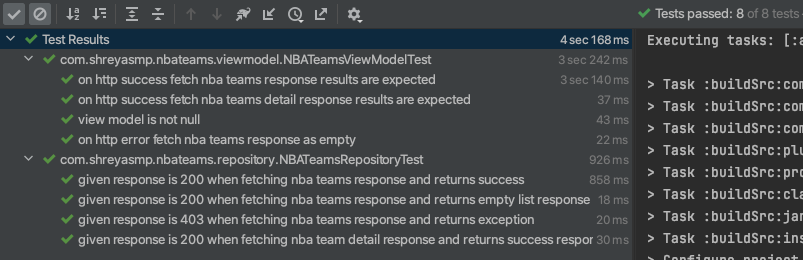
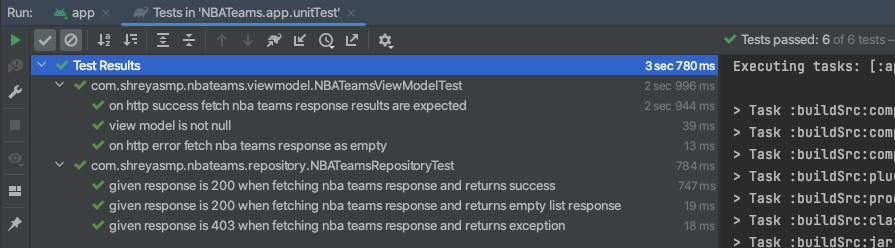
Removed extra api and improvised viewmodel.

diff --git a/app/src/main/java/com/shreyasmp/nbateams/viewmodel/NBATeamsViewModel.kt b/app/src/main/java/com/shreyasmp/nbateams/viewmodel/NBATeamsViewModel.kt
@@ -6,7 +6,6 @@ import androidx.lifecycle.LiveData
 import androidx.lifecycle.MutableLiveData
 import androidx.lifecycle.ViewModel
 import androidx.lifecycle.viewModelScope
-import com.shreyasmp.nbateams.model.Team
 import com.shreyasmp.nbateams.model.TeamsList
 import com.shreyasmp.nbateams.repository.NBATeamsRepository
 import com.shreyasmp.nbateams.utils.ResultWrapper
@@ -19,9 +18,6 @@ class NBATeamsViewModel(private val repository: NBATeamsRepository) : ViewModel(
 
     private val _nbaTeamsListResponse: MutableLiveData<TeamsList?> = MutableLiveData()
     val nbaTeamsListResponse: LiveData<TeamsList?> = _nbaTeamsListResponse
-
-    private val _nbaTeamDetailResponse: MutableLiveData<Team?> = MutableLiveData()
-    val nbaTeamDetailResponse: LiveData<Team?> = _nbaTeamDetailResponse
 
     private val isError: MutableState<Boolean> = mutableStateOf(false)
     var isLoading: MutableState<Boolean> = mutableStateOf(false)
@@ -46,27 +42,6 @@ class NBATeamsViewModel(private val repository: NBATeamsRepository) : ViewModel(
                 is ResultWrapper.FAILURE -> {
                     isError.value = true
                     _nbaTeamsListResponse.value = null
-                }
-            }
-            isLoading.value = false
-        }
-    }
-
-    fun fetchNBATeamDetails(teamName: String) {
-        isLoading.value = true
-        viewModelScope.launch {
-            val result = withContext(Dispatchers.IO) {
-                repository.getNBATeamDetails(teamName)
-            }
-            when (result) {
-                is ResultWrapper.SUCCESS -> {
-                    isError.value = false
-                    _nbaTeamDetailResponse.value = result.value.value
-                }
-
-                is ResultWrapper.FAILURE -> {
-                    isError.value = true
-                    _nbaTeamDetailResponse.value = null
                 }
             }
             isLoading.value = false

diff --git a/app/src/main/java/com/shreyasmp/nbateams/repository/NBATeamsRepository.kt b/app/src/main/java/com/shreyasmp/nbateams/repository/NBATeamsRepository.kt
@@ -3,7 +3,6 @@ package com.shreyasmp.nbateams.repository
 import android.util.Log
 import androidx.lifecycle.LiveData
 import androidx.lifecycle.MutableLiveData
-import com.shreyasmp.nbateams.model.Team
 import com.shreyasmp.nbateams.model.TeamsList
 import com.shreyasmp.nbateams.service.NBATeamService
 import com.shreyasmp.nbateams.utils.ResultWrapper
@@ -11,8 +10,6 @@ import com.shreyasmp.nbateams.utils.ResultWrapper
 interface NBATeamsRepository {
 
     suspend fun getNBATeamsList(): ResultWrapper<LiveData<TeamsList>>
-
-    suspend fun getNBATeamDetails(teamName: String): ResultWrapper<LiveData<Team>>
 }
 
 class NBATeamsRepositoryImpl(private val service: NBATeamService) : NBATeamsRepository {
@@ -28,22 +25,6 @@ class NBATeamsRepositoryImpl(private val service: NBATeamService) : NBATeamsRepo
             if (responseBody.isSuccessful && responseBody.body() != null) {
                 nbaTeamListResults.postValue(responseBody.body())
                 ResultWrapper.SUCCESS(nbaTeamListResults)
-            } else {
-                ResultWrapper.FAILURE(null)
-            }
-        } catch (exception: Exception) {
-            Log.d(TAG, "Exception: ${exception.message}")
-            ResultWrapper.FAILURE(null)
-        }
-    }
-
-    override suspend fun getNBATeamDetails(teamName: String): ResultWrapper<LiveData<Team>> {
-        val nbaTeamDetailsResults = MutableLiveData<Team>()
-        return try {
-            val responseBody = service.fetchSelectedNBATeamDetails(teamName)
-            if (responseBody.isSuccessful && responseBody.body() != null) {
-                nbaTeamDetailsResults.postValue(responseBody.body())
-                ResultWrapper.SUCCESS(nbaTeamDetailsResults)
             } else {
                 ResultWrapper.FAILURE(null)
             }

diff --git a/app/src/main/java/com/shreyasmp/nbateams/view/MainActivity.kt b/app/src/main/java/com/shreyasmp/nbateams/view/MainActivity.kt
@@ -1,10 +1,8 @@
 package com.shreyasmp.nbateams.view
 
-import android.os.Build
 import android.os.Bundle
 import androidx.activity.ComponentActivity
 import androidx.activity.compose.setContent
-import androidx.annotation.RequiresApi
 import androidx.compose.foundation.layout.Row
 import androidx.compose.material.MaterialTheme
 import androidx.compose.material.Scaffold
@@ -24,7 +22,6 @@ class MainActivity : ComponentActivity() {
 
     private val nbaTeamViewModel by viewModel<NBATeamsViewModel>()
 
-    @RequiresApi(Build.VERSION_CODES.TIRAMISU)
     override fun onCreate(savedInstanceState: Bundle?) {
         super.onCreate(savedInstanceState)
 
@@ -32,14 +29,9 @@ class MainActivity : ComponentActivity() {
             NBATeamsTheme {
                 Surface(color = MaterialTheme.colors.background) {
                     TeamListView(nbaTeamViewModel) {
-                        // On tap of list item, make call with team name for fetching team
-                        // details with player list that needs to be passed to detail screen.
-                        it.full_name?.let { teamName ->
-                            nbaTeamViewModel.fetchNBATeamDetails(teamName)
-                        }
-                        nbaTeamViewModel.nbaTeamDetailResponse.observe(this) { teamData ->
-                            startActivity(DetailedViewActivity.newIntent(this, teamData))
-                        }
+                        // On tap of list item, show the details with player
+                        // list that needs to be passed to detail screen.
+                        startActivity(DetailedViewActivity.newIntent(this, it))
                     }
                 }
             }

diff --git a/app/src/test/java/com/shreyasmp/nbateams/viewmodel/NBATeamsViewModelTest.kt b/app/src/test/java/com/shreyasmp/nbateams/viewmodel/NBATeamsViewModelTest.kt
@@ -8,7 +8,6 @@ import com.nhaarman.mockitokotlin2.doReturn
 import com.nhaarman.mockitokotlin2.times
 import com.nhaarman.mockitokotlin2.verify
 import com.shreyas.nytimes.utils.TestJsonUtils
-import com.shreyasmp.nbateams.model.Team
 import com.shreyasmp.nbateams.model.TeamsList
 import com.shreyasmp.nbateams.repository.NBATeamsRepositoryImpl
 import com.shreyasmp.nbateams.utils.ResultWrapper
@@ -28,7 +27,6 @@ import org.junit.rules.TestWatcher
 import org.junit.runner.Description
 import org.junit.runner.RunWith
 import org.junit.runners.JUnit4
-import org.mockito.ArgumentMatchers.anyString
 import org.mockito.Mock
 import org.mockito.MockitoAnnotations
 
@@ -79,28 +77,6 @@ class NBATeamsViewModelTest {
             viewModel.fetchNBATeamsList()
 
             verify(mockRepository, times(2)).getNBATeamsList()
-        }
-    }
-
-    @Test
-    fun `on http success fetch nba teams detail response results are expected`() {
-        runTest {
-            val response = TestJsonUtils.getObjectFromJsonFile(
-                jsonFile = "success_nbateams_detail.json",
-                tClass = Team::class.java
-            )
-
-            val liveDataResponse = MutableLiveData<Team>()
-            liveDataResponse.value = response
-
-            doReturn(ResultWrapper.SUCCESS(liveDataResponse)).`when`(mockRepository)
-                .getNBATeamDetails("Foo")
-
-            viewModel.nbaTeamsListResponse.observeForever(mockObserver)
-
-            viewModel.fetchNBATeamDetails("Foo")
-
-            verify(mockRepository, times(1)).getNBATeamDetails("Foo")
         }
     }
 

diff --git a/app/src/test/java/com/shreyasmp/nbateams/repository/NBATeamsRepositoryTest.kt b/app/src/test/java/com/shreyasmp/nbateams/repository/NBATeamsRepositoryTest.kt
@@ -61,22 +61,6 @@ class NBATeamsRepositoryTest : MockServerBaseTest() {
         }
 
     @Test
-    fun `given response is 200 when fetching nba team detail response and returns success response`() =
-        runTest {
-            mockHttpResponseFromFile("success_nbateams_detail.json", HttpURLConnection.HTTP_OK)
-            when (val result = repository.getNBATeamDetails("Boston Celtics")) {
-                is ResultWrapper.SUCCESS -> {
-                    val nbaTeamDetail = result.value.value
-                    assertThat(nbaTeamDetail).isNotNull()
-                    assertThat(nbaTeamDetail?.players).isNotNull()
-                    assertThat(nbaTeamDetail?.players?.size).isEqualTo(17)
-                }
-
-                else -> {}
-            }
-        }
-
-    @Test
     fun `given response is 403 when fetching nba teams response and returns exception`() =
         runTest {
             mockHttpResponse(403)

diff --git a/app/src/main/java/com/shreyasmp/nbateams/view/DetailedViewActivity.kt b/app/src/main/java/com/shreyasmp/nbateams/view/DetailedViewActivity.kt
@@ -2,11 +2,9 @@ package com.shreyasmp.nbateams.view
 
 import android.content.Context
 import android.content.Intent
-import android.os.Build
 import android.os.Bundle
 import androidx.activity.ComponentActivity
 import androidx.activity.compose.setContent
-import androidx.annotation.RequiresApi
 import androidx.compose.foundation.layout.Row
 import androidx.compose.material.Scaffold
 import androidx.compose.material.Text
@@ -16,7 +14,6 @@ import com.shreyasmp.nbateams.model.Team
 import com.shreyasmp.nbateams.ui.TeamDetailedListView
 import com.shreyasmp.nbateams.ui.theme.NBATeamsTheme
 
-@RequiresApi(Build.VERSION_CODES.TIRAMISU)
 class DetailedViewActivity : ComponentActivity() {
 
     private val teamData: Team by lazy {

diff --git a/app/src/main/java/com/shreyasmp/nbateams/service/NBATeamService.kt b/app/src/main/java/com/shreyasmp/nbateams/service/NBATeamService.kt
@@ -1,18 +1,11 @@
 package com.shreyasmp.nbateams.service
 
-import com.shreyasmp.nbateams.model.Team
 import com.shreyasmp.nbateams.model.TeamsList
 import retrofit2.Response
 import retrofit2.http.GET
-import retrofit2.http.Query
 
 interface NBATeamService {
 
     @GET("shreyasmp/RxJavaBeginner/master/input.json")
     suspend fun fetchNBATeamListResponse(): Response<TeamsList>
-
-    @GET("shreyasmp/RxJavaBeginner/master/details.json")
-    suspend fun fetchSelectedNBATeamDetails(
-        @Query("team_name") teamName: String
-    ): Response<Team>
 }
